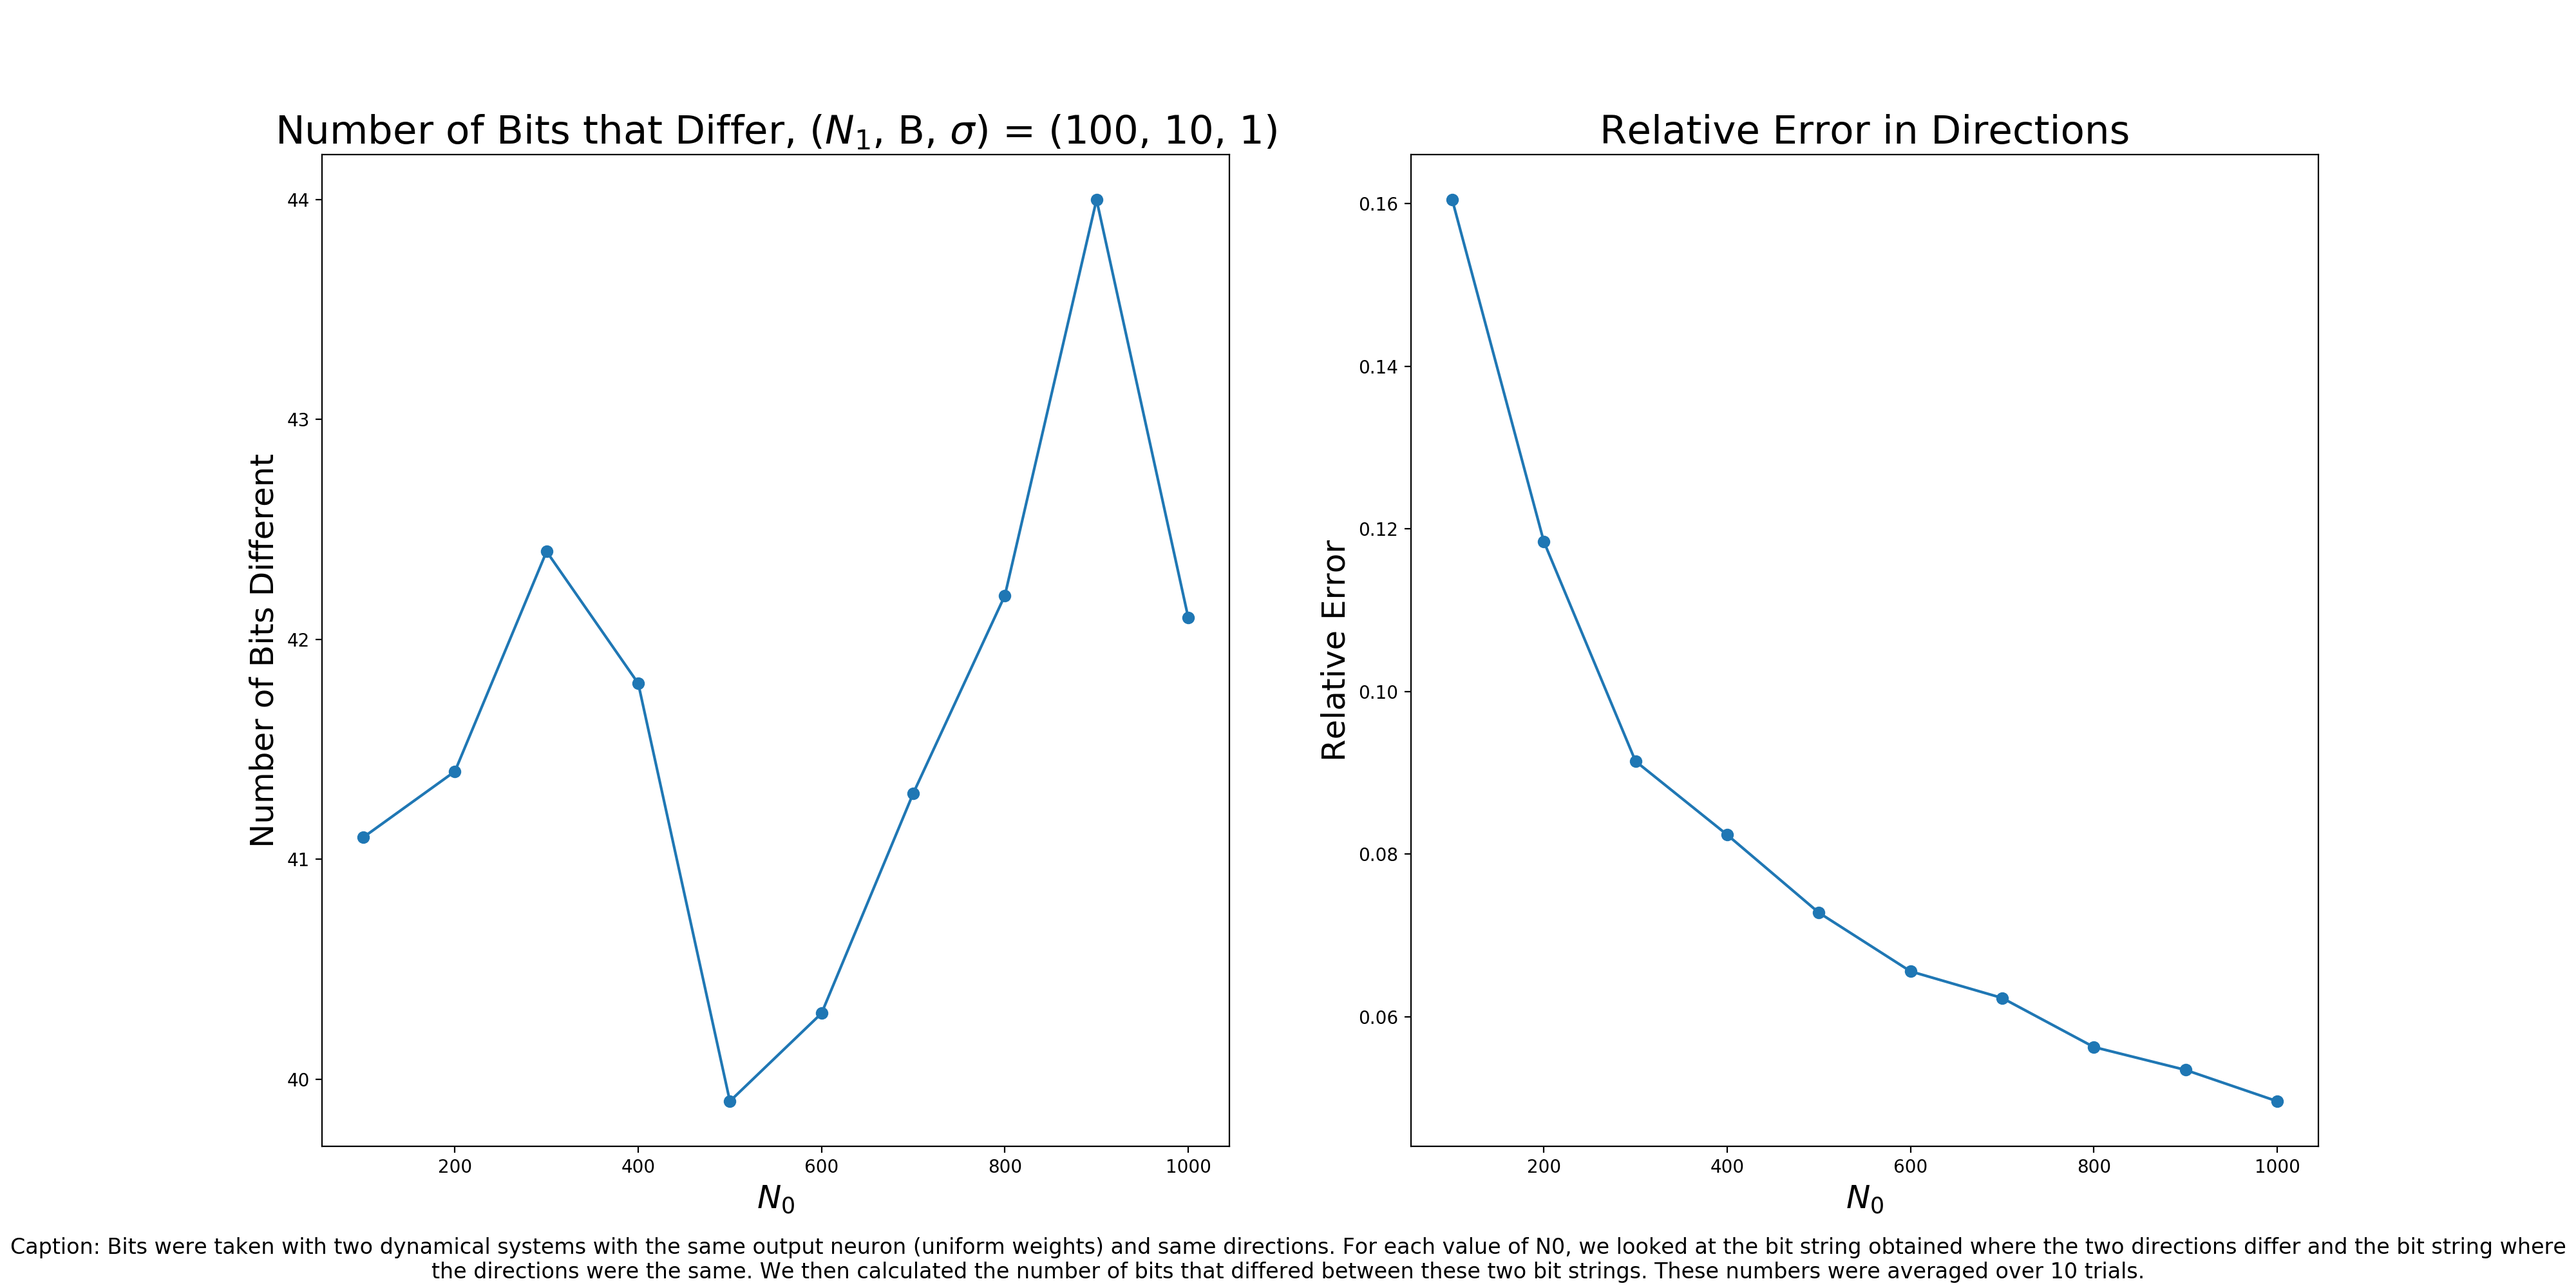
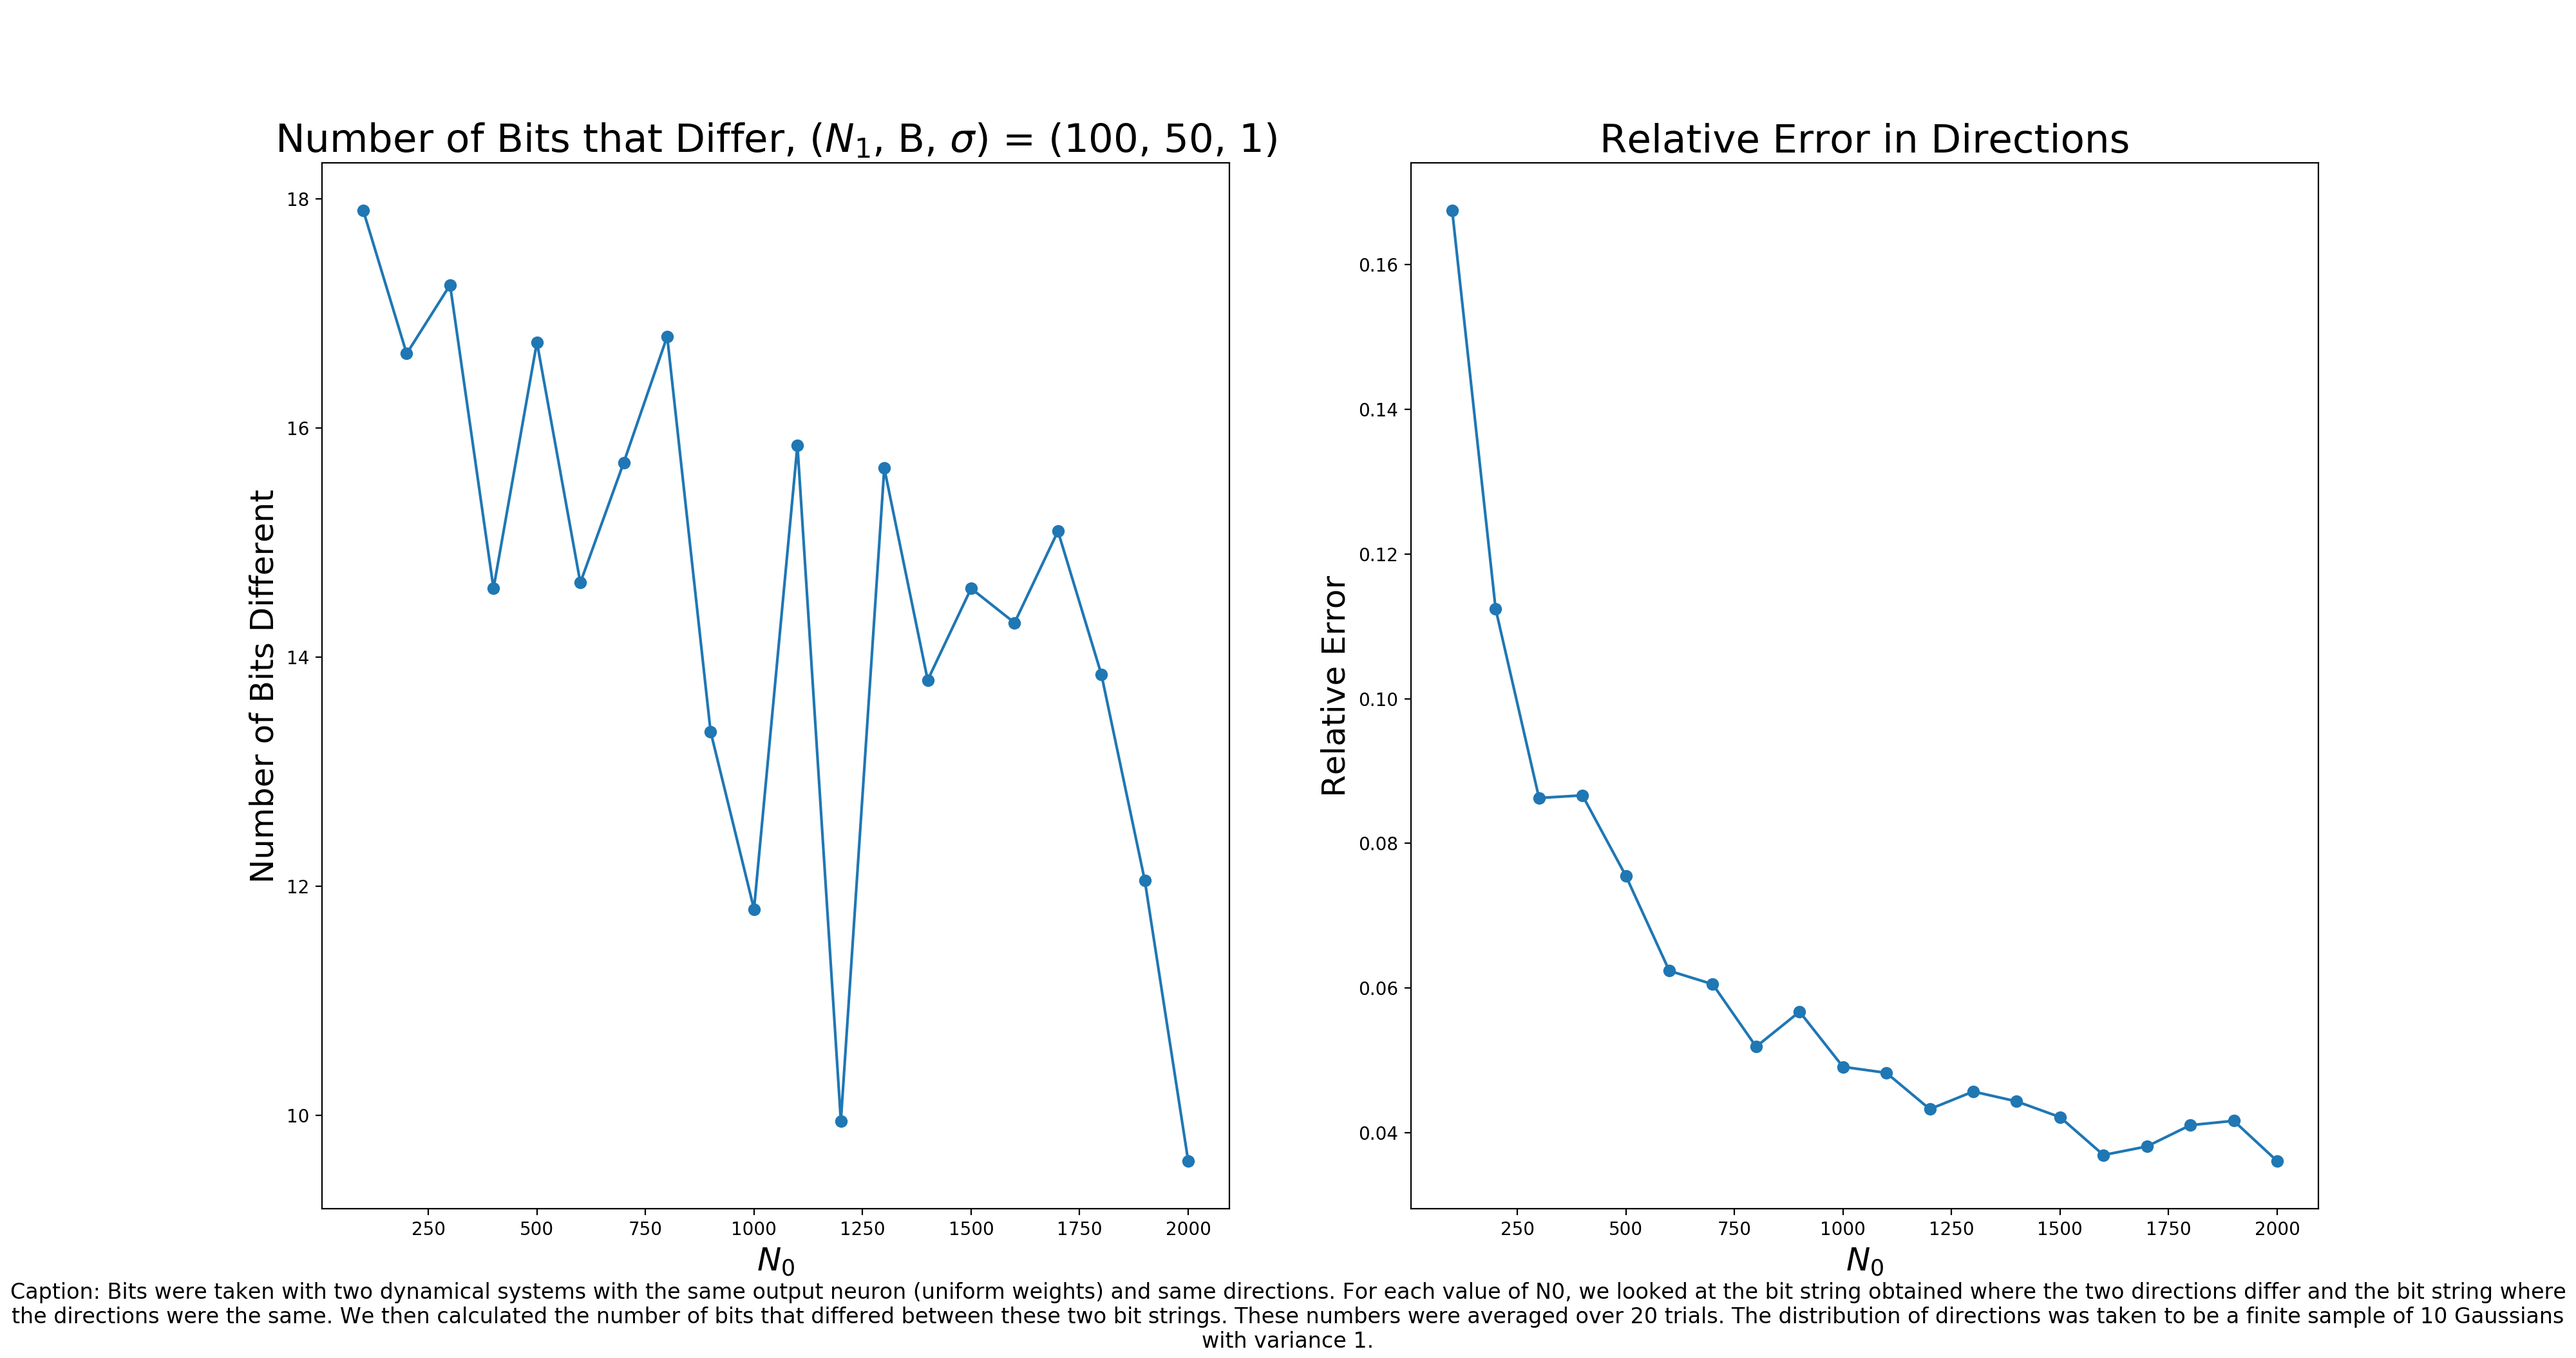
Change the perturbation experiment to pull from empirical distribution. Update figure.

diff --git a/experiments.py b/experiments.py
@@ -1189,20 +1189,29 @@ def out_of_sample_rel_err():
 
 def perturbation_analysis():
 
-	N0s = np.arange(100, 1100, 100)
+	N0_min = 100
+	N0_max = 2100
+	N0s = np.arange(N0_min, N0_max, 100)
 	N1 = 100
 	N2 = 1
-	batch_size = 10
-	num_trials = 10
+
+	# Use a finite sample gaussian. This way you don't need to worry about generalization bounds
+	distribution_size = 10
+	batch_size = 5*distribution_size
+	num_trials = 20
 	sigma = 1
 
 	num_diff = np.zeros(len(N0s))
 	rel_errs = np.zeros(len(N0s))
 
 	for N0_idx, N0 in enumerate(N0s):
+
+		empirical_distribution = np.random.randn(distribution_size, N0)*sigma
 		def get_batch_data(batch_size:int):
-			# Gaussian data for now.
-			return np.random.randn(batch_size, N0) * sigma
+			indices = np.random.choice(np.arange(0, empirical_distribution.shape[0], 1), batch_size, replace=True)
+			return empirical_distribution[indices,:]
+
+
 		for trial_idx in range(num_trials):
 			logger.info(f"Quantizing network with N0 = {N0} trial {trial_idx}...")
 			model = Sequential()
@@ -1225,7 +1234,6 @@ def perturbation_analysis():
 			model2.add(layer3)
 			layer3.set_weights(w)
 
-			breakpoint()
 			new_quant_net = QuantizedNeuralNetwork(model2, batch_size, lambda x: qX, is_debug=True)
 			new_quant_net.quantize_network()
 			q_not_perturbed = new_quant_net.quantized_net.layers[0].weights[0].numpy()
@@ -1243,10 +1251,11 @@ def perturbation_analysis():
 	axes[0].set_xlabel(r"$N_0$", fontsize=18)
 	axes[0].set_ylabel("Number of Bits Different", fontsize=18)
 	# ax.set_ylim(0,1)
-	axes[0].plot(N1s, num_diff, '-o')
+	axes[0].plot(N0s, num_diff, '-o')
 	caption = "Caption: Bits were taken with two dynamical systems with the same output neuron (uniform weights) and same directions." \
 	" For each value of N0, we looked at the bit string obtained where the two directions differ and the bit string where the directions were the same. " \
-	f"We then calculated the number of bits that differed between these two bit strings. These numbers were averaged over {num_trials} trials."
+	f"We then calculated the number of bits that differed between these two bit strings. These numbers were averaged over {num_trials} trials." \
+	f" The distribution of directions was taken to be a finite sample of {distribution_size} Gaussians with variance {sigma**2}."
 	fig.text(0.5, 0.01, caption, ha='center', wrap=True, fontsize=12)
 
 	axes[1].set_title("Relative Error in Directions", fontsize=22)
